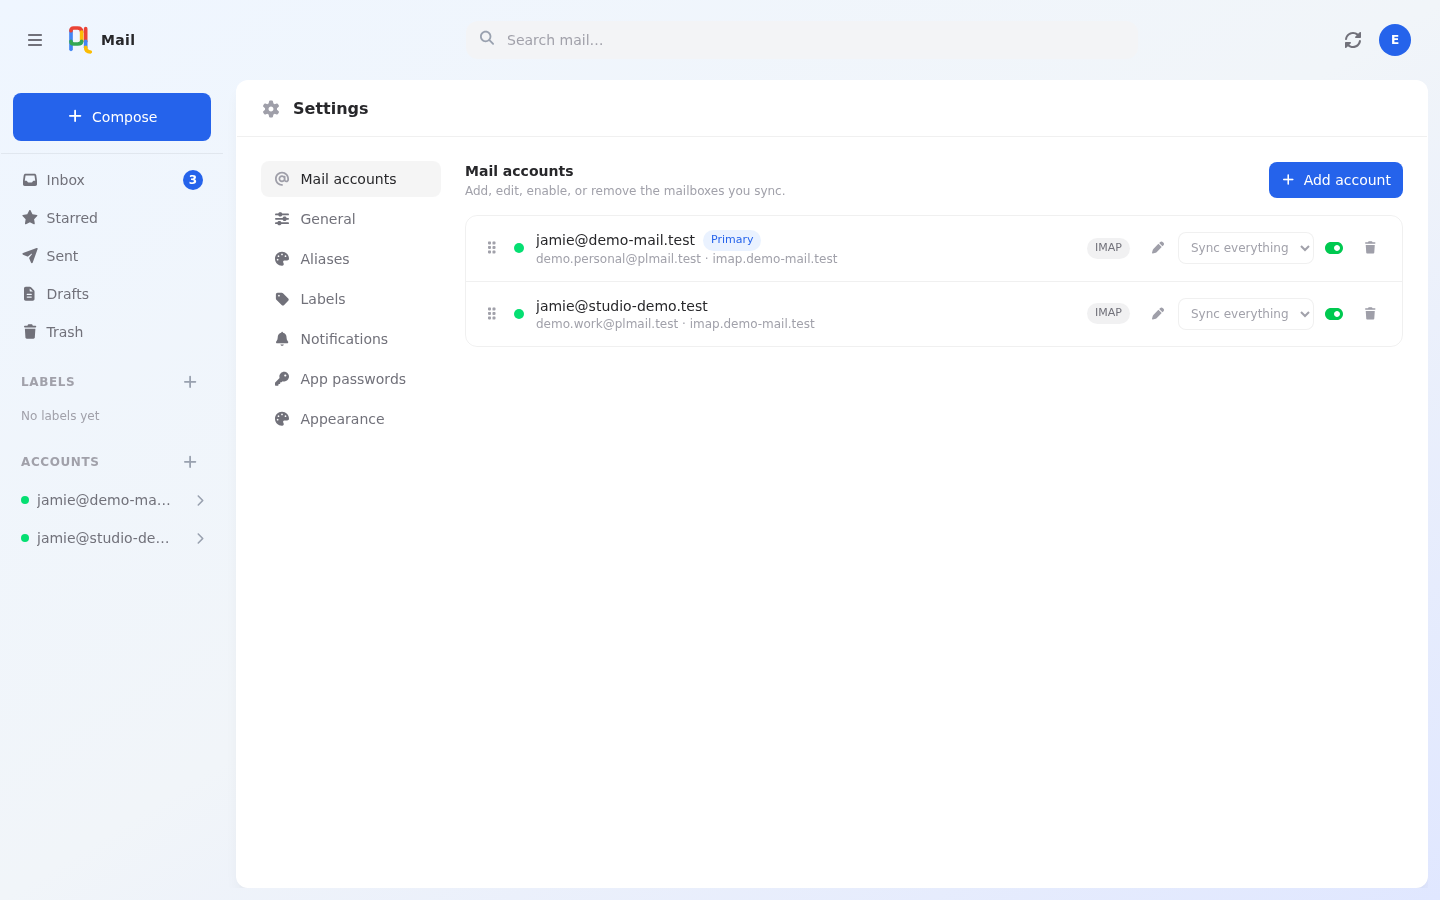
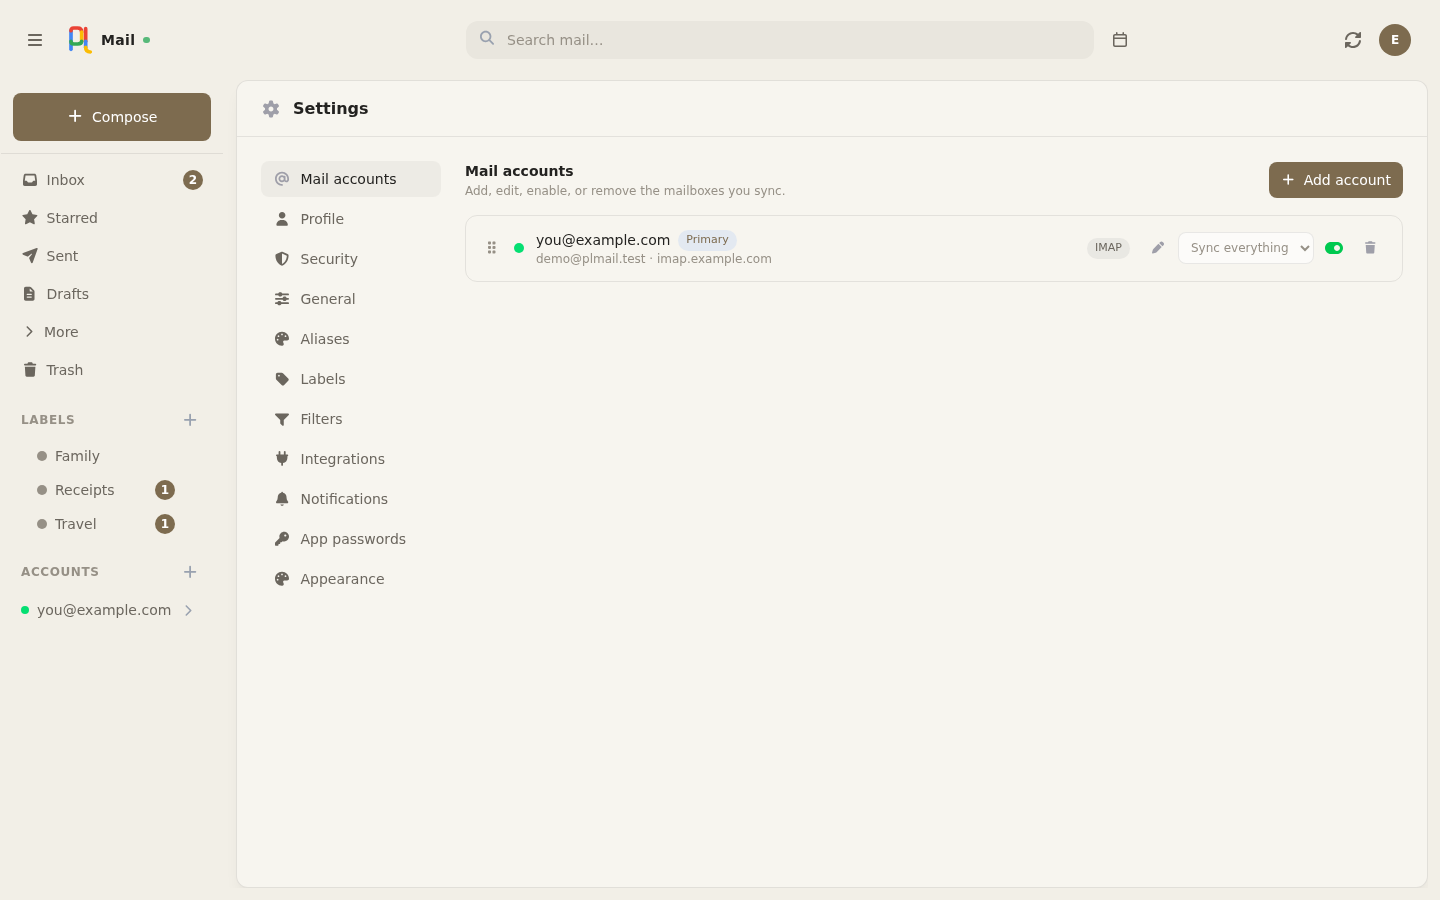
Retake the whole tour, and seed the contacts it needs
The compose shot picks a recipient out of the autocomplete, which reads
the contact book — filled by harvesting synced mail, not by seeding it,
so it was the one screenshot the demo mailbox could not produce. The seed
writes its senders as contacts, and clears fixture labels for the same
reason it clears the fixture account: "E2E Label" in the sidebar gives
the game away exactly like "E2E Trash Me" in the list.

All eight are regenerated. Six of them predate this week's sidebar work
and showed a UI that no longer exists.

diff --git a/src/Command/Test/SeedDemoMailboxCommand.php b/src/Command/Test/SeedDemoMailboxCommand.php
@@ -13,6 +13,8 @@ use App\Entity\Mail\Message;
 use App\Entity\Mail\MessageThread;
 use App\Jmap\State\StateManager;
 use App\Repository\Calendar\CalendarEventRepository;
+use App\Repository\Label\LabelRepository;
+use App\Repository\Mail\ContactRepository;
 use App\Repository\Mail\AccountRepository;
 use App\Repository\Mail\MessageThreadRepository;
 use App\Repository\User\UserRepository;
@@ -115,6 +117,8 @@ final class SeedDemoMailboxCommand extends Command
         private readonly UserRepository          $userRepository,
         private readonly AccountRepository       $accountRepository,
         private readonly CalendarEventRepository $calendarEventRepository,
+        private readonly ContactRepository       $contactRepository,
+        private readonly LabelRepository         $labelRepository,
         private readonly MessageThreadRepository $threadRepository,
         private readonly LabelResolver           $labelResolver,
         private readonly StateManager            $stateManager,
@@ -195,6 +199,18 @@ final class SeedDemoMailboxCommand extends Command
 
         $this->entityManager->flush();
 
+        // Custom labels from other fixtures go too — "E2E Label" in the
+        // sidebar of a readme screenshot is the same tell as "E2E Trash Me" in
+        // the message list. System labels stay: they are this account's
+        // folders, not decoration.
+        foreach ($this->labelRepository->findBy(['usr' => $user, 'role' => null]) as $label) {
+            if (false === in_array((string) $label->name, self::LABELS, true)) {
+                $this->entityManager->remove($label);
+            }
+        }
+
+        $this->entityManager->flush();
+
         $inbox  = $this->labelResolver->systemLabel(LabelRole::Inbox, $account);
         $labels = [];
 
@@ -262,6 +278,17 @@ final class SeedDemoMailboxCommand extends Command
         foreach ($messages as $message) {
             $this->stateManager->recordCreated($accountId, JmapObjectType::Email, (string) $message->id);
         }
+
+        // The senders as contacts, which is what makes the compose screenshot
+        // possible: recipients autocomplete from the address book, and that is
+        // normally filled by harvesting synced mail rather than by seeding it.
+        $contacts = [];
+
+        foreach (self::THREADS as [, $fromName, $fromAddress]) {
+            $contacts[] = ['email' => $fromAddress, 'name' => $fromName, 'correspondent' => true];
+        }
+
+        $this->contactRepository->upsertBatch($user, $contacts);
 
         $this->entityManager->flush();
 

diff --git a/CHANGELOG.md b/CHANGELOG.md
@@ -10,6 +10,47 @@ The published image tags: `latest` follows the most recent release below,
 
 Nothing yet.
 
+## v0.0.15 — 2026-08-03
+
+No schema change, no deployment change.
+
+### Fixed
+
+- **An Outlook account could stop syncing entirely.** `meetingMessageType` is
+  declared on Graph's event-message type, not on the base message, and naming it
+  unqualified does not get ignored — the whole `$select` is rejected, every
+  message in the batch answers 400, and nothing arrives. It is asked for through
+  the cast now, and a mailbox that refuses even that gets one retry without it
+  and is remembered, rather than never syncing again.
+- **Deleted Outlook drafts sat in Drafts and Trash at once.** Attaching a folder
+  label relied on the source folder's removal notice to take the old one off,
+  which only works while both carry the same message id — and personal
+  outlook.com mailboxes do not reliably provide those. A folder move now
+  replaces the location outright, which is what a single Exchange folder means.
+- **A filter with no conditions claimed the whole mailbox.** "If this is any
+  message → …" read the same whether the rule was scoped to one account or all
+  of them, which is exactly the case where the account *is* the rule. It says
+  which account now, and picking one updates the sentence and the match count
+  immediately instead of waiting for the next edit.
+- **A Graph subscription this install no longer has filled the log.** Microsoft
+  keeps delivering to a registration it still holds — several times a second,
+  for up to three days — and without the account there is nothing here that can
+  cancel it. Logged once an hour per subscription instead of once per
+  notification, so it stops burying everything else and lighting the unread-log
+  ring over something nobody can act on.
+- **"Matches 1 existing messages"** in the filter editor.
+
+### Changed
+
+- **The image tag is the first optional setting in the TrueNAS compose file**,
+  with what each channel means: `:latest` for releases, `:main` for every merge,
+  and the pinned forms. Also says the image tag carries no leading `v`, and that
+  downgrading is not supported because migrations run forward on boot.
+- **The README tour is current, and anyone can retake it.** `app:test:seed-demo`
+  writes a believable demo mailbox, so the screenshots no longer depend on one
+  person's installation; all eight are regenerated, and filters and the calendar
+  are in the tour for the first time.
+
 ## v0.0.14 — 2026-08-03
 
 No schema change, no deployment change.
